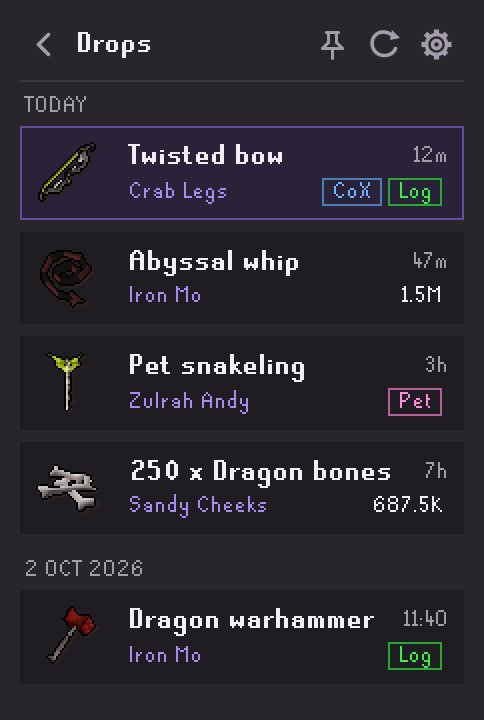
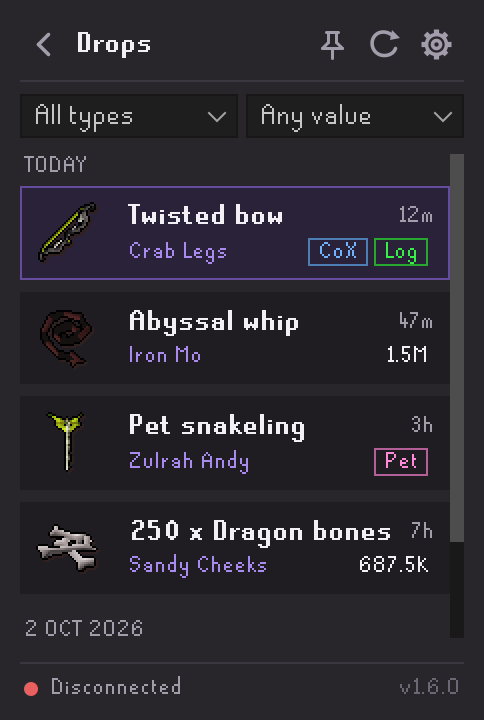
feat(drops): type and value filter

diff --git a/src/main/java/com/tsghub/TsgHubSidebarPanel.java b/src/main/java/com/tsghub/TsgHubSidebarPanel.java
@@ -45,6 +45,7 @@ import javax.swing.Icon;
 import javax.swing.ImageIcon;
 import javax.swing.JButton;
 import javax.swing.JCheckBox;
+import javax.swing.JComboBox;
 import javax.swing.JComponent;
 import javax.swing.JLabel;
 import javax.swing.JOptionPane;
@@ -102,6 +103,9 @@ final class TsgHubSidebarPanel extends PluginPanel
 	private final WidthTrackingPanel dropsPage = new WidthTrackingPanel();
 	private final JScrollPane membersScroll = scroll(membersPage);
 	private final JScrollPane dropsScroll = scroll(dropsPage);
+	private final JPanel dropsView = new JPanel(new BorderLayout(0, GAP_M));
+	private final JComboBox<String> dropType = new JComboBox<>(new String[] {"All types", "Mine", "Raids", "Pets", "Log"});
+	private final JComboBox<String> dropValue = new JComboBox<>(new String[] {"Any value", "100k+", "1m+", "10m+"});
 	private final TsgHubDock dock = new TsgHubDock(center, this::unpin);
 	private View pinned;
 
@@ -128,6 +132,8 @@ final class TsgHubSidebarPanel extends PluginPanel
 	private volatile boolean membersWanted;
 	private volatile boolean groupsWanted;
 	private volatile boolean dropsWanted;
+	private volatile int dropTypeIndex;
+	private volatile int dropValueIndex;
 	private JsonArray members;
 	private JsonArray offlineMembers = new JsonArray();
 	private boolean notesLoaded;
@@ -153,6 +159,8 @@ final class TsgHubSidebarPanel extends PluginPanel
 	private final GroupMembersPanel groupMembers;
 	private static final String WILDERNESS = "Wilderness lvl ";
 	private static final int DROP_ICON_W = 40;
+	private static final String[] DROP_KINDS = {"", "", "raid", "pet", "log"};
+	private static final long[] DROP_VALUES = {0, 100_000, 1_000_000, 10_000_000};
 	private static final DateTimeFormatter CLOCK_TIME = DateTimeFormatter.ofPattern("HH:mm");
 	private static final Color TAG_DEFAULT = new Color(195, 140, 255);
 	private static final Map<String, Color> TAG_COLORS = Map.of(
@@ -220,7 +228,7 @@ final class TsgHubSidebarPanel extends PluginPanel
 		center.add(buildBoard(), "board");
 		center.add(groupsScroll, "groups");
 		center.add(membersScroll, "members");
-		center.add(dropsScroll, "drops");
+		center.add(buildDropsView(), "drops");
 		add(dock, BorderLayout.CENTER);
 		add(buildFooter(), BorderLayout.SOUTH);
 
@@ -1155,6 +1163,75 @@ final class TsgHubSidebarPanel extends PluginPanel
 		if (shows(View.DROPS)) renderDrops();
 	}
 
+	private JPanel buildDropsView()
+	{
+		JPanel filters = panel(new java.awt.GridLayout(1, 2, GAP_S, 0));
+		dropTypeIndex = sessionIndex("dropType", dropType.getItemCount());
+		dropValueIndex = sessionIndex("dropValue", dropValue.getItemCount());
+		dropType.setSelectedIndex(dropTypeIndex);
+		dropValue.setSelectedIndex(dropValueIndex);
+		dropType.setToolTipText("Drop type");
+		dropValue.setToolTipText("Minimum value");
+		dropType.addActionListener(e -> changeDropFilter());
+		dropValue.addActionListener(e -> changeDropFilter());
+		filters.add(dropType);
+		filters.add(dropValue);
+		dropsView.setOpaque(false);
+		dropsView.add(filters, BorderLayout.NORTH);
+		dropsView.add(dropsScroll, BorderLayout.CENTER);
+		return dropsView;
+	}
+
+	private static int sessionIndex(String key, int size)
+	{
+		try
+		{
+			int index = Integer.parseInt(TsgHubSession.get(key));
+			return index >= 0 && index < size ? index : 0;
+		}
+		catch (NumberFormatException e)
+		{
+			return 0;
+		}
+	}
+
+	private void changeDropFilter()
+	{
+		if (dropTypeIndex == dropType.getSelectedIndex() && dropValueIndex == dropValue.getSelectedIndex()) return;
+		dropTypeIndex = Math.max(0, dropType.getSelectedIndex());
+		dropValueIndex = Math.max(0, dropValue.getSelectedIndex());
+		TsgHubSession.set("dropType", dropTypeIndex == 0 ? "" : String.valueOf(dropTypeIndex));
+		TsgHubSession.set("dropValue", dropValueIndex == 0 ? "" : String.valueOf(dropValueIndex));
+		if (shows(View.DROPS)) renderDrops();
+		plugin.drops().load(false);
+	}
+
+	String dropsQuery()
+	{
+		String query = "";
+		String kind = DROP_KINDS[dropTypeIndex];
+		if (!kind.isEmpty()) query += "&kind=" + kind;
+		if (dropTypeIndex == 1) query += "&player=" + TsgHubDrops.encode(plugin.getDetectedPlayerName());
+		if (dropValueIndex > 0) query += "&minValue=" + DROP_VALUES[dropValueIndex];
+		return query;
+	}
+
+	static boolean dropMatches(JsonObject drop, int type, long minValue, String self)
+	{
+		String kind = str(drop, "kind");
+		boolean typeMatches;
+		switch (type)
+		{
+			case 1: typeMatches = samePlayer(str(drop, "player"), self); break;
+			case 2: typeMatches = "raid".equals(kind); break;
+			case 3: typeMatches = "pet".equals(kind) || "dupe".equals(kind); break;
+			case 4: typeMatches = bool(drop, "newLog") || "clog".equals(kind); break;
+			default: typeMatches = true;
+		}
+		long value = drop.has("value") ? drop.get("value").getAsLong() : 0;
+		return typeMatches && value >= minValue;
+	}
+
 	void showDrops()
 	{
 		if (pinned == View.DROPS)
@@ -1176,7 +1253,7 @@ final class TsgHubSidebarPanel extends PluginPanel
 		{
 			dropsPage.add(caption("Loading drops..."));
 		}
-		else if (drops.size() == 0)
+		else if (drops.size() == 0 && dropTypeIndex == 0 && dropValueIndex == 0)
 		{
 			dropsPage.add(errorPanel("No drops yet", "Clan broadcasts for drops, raid loot, pets and collection log items show up here."));
 		}
@@ -1184,10 +1261,18 @@ final class TsgHubSidebarPanel extends PluginPanel
 		{
 			Instant now = clock.instant();
 			ZoneId zone = ZoneId.systemDefault();
-			String day = null;
+			String self = plugin.getDetectedPlayerName();
+			JsonArray shown = new JsonArray();
 			for (int i = 0; i < drops.size(); i++)
 			{
 				JsonObject drop = drops.get(i).getAsJsonObject();
+				if (dropMatches(drop, dropTypeIndex, DROP_VALUES[dropValueIndex], self)) shown.add(drop);
+			}
+			if (shown.size() == 0) dropsPage.add(errorPanel("No matching drops", "Nothing recent matches this type and value."));
+			String day = null;
+			for (int i = 0; i < shown.size(); i++)
+			{
+				JsonObject drop = shown.get(i).getAsJsonObject();
 				String nextDay = dropDay(str(drop, "receivedAt"), now, zone);
 				if (!nextDay.equals(day))
 				{
@@ -2022,9 +2107,9 @@ final class TsgHubSidebarPanel extends PluginPanel
 		else setHeader(titleText, subtitleText, true, true);
 	}
 
-	private JScrollPane pane(View owner)
+	private JComponent pane(View owner)
 	{
-		return owner == View.MEMBERS ? membersScroll : owner == View.DROPS ? dropsScroll : groupsScroll;
+		return owner == View.MEMBERS ? membersScroll : owner == View.DROPS ? dropsView : groupsScroll;
 	}
 
 	private Icon pinIcon(View owner)

diff --git a/src/test/java/com/tsghub/DropsPanelTest.java b/src/test/java/com/tsghub/DropsPanelTest.java
@@ -1,6 +1,7 @@
 package com.tsghub;
 
 import static org.junit.Assert.assertEquals;
+import static org.junit.Assert.assertFalse;
 import static org.junit.Assert.assertNull;
 import static org.junit.Assert.assertTrue;
 
@@ -127,6 +128,34 @@ public class DropsPanelTest
 		drop.addProperty("rate", "1/358");
 		String tip = TsgHubSidebarPanel.dropTooltip(drop);
 		assertTrue(tip, tip.contains("<b>Spindel</b><br>1/358") && tip.contains("DROPPED BY"));
+	}
+
+	@Test
+	public void dropMatches()
+	{
+		JsonObject whip = drop("Abyssal whip", 1);
+		whip.addProperty("kind", "drop");
+		whip.addProperty("player", "Iron Mo");
+		whip.addProperty("value", 1_512_345);
+		JsonObject raid = drop("Twisted bow", 1);
+		raid.addProperty("kind", "raid");
+		raid.addProperty("player", "Crab Legs");
+		raid.addProperty("newLog", true);
+		JsonObject dupe = drop("Vorki", 1);
+		dupe.addProperty("kind", "dupe");
+		dupe.addProperty("player", "Crab Legs");
+
+		assertTrue(TsgHubSidebarPanel.dropMatches(whip, 0, 0, "Crab Legs"));
+		assertFalse(TsgHubSidebarPanel.dropMatches(whip, 1, 0, "Crab Legs"));
+		assertTrue(TsgHubSidebarPanel.dropMatches(raid, 1, 0, "crab\u00a0legs"));
+		assertTrue(TsgHubSidebarPanel.dropMatches(raid, 2, 0, "Crab Legs"));
+		assertFalse(TsgHubSidebarPanel.dropMatches(whip, 2, 0, "Crab Legs"));
+		assertTrue(TsgHubSidebarPanel.dropMatches(dupe, 3, 0, "Crab Legs"));
+		assertTrue(TsgHubSidebarPanel.dropMatches(raid, 4, 0, "Crab Legs"));
+		assertFalse(TsgHubSidebarPanel.dropMatches(dupe, 4, 0, "Crab Legs"));
+		assertTrue(TsgHubSidebarPanel.dropMatches(whip, 0, 1_000_000, "Crab Legs"));
+		assertFalse(TsgHubSidebarPanel.dropMatches(whip, 0, 10_000_000, "Crab Legs"));
+		assertFalse(TsgHubSidebarPanel.dropMatches(raid, 2, 100_000, "Crab Legs"));
 	}
 
 	private static JsonObject drop(String item, int quantity)

diff --git a/src/main/java/com/tsghub/TsgHubDrops.java b/src/main/java/com/tsghub/TsgHubDrops.java
@@ -101,15 +101,29 @@ final class TsgHubDrops
 	{
 		if (!plugin.isInHubClan() || !plugin.sharingEnabled() || executor.isShutdown()) return;
 		String clan = encode(plugin.getDetectedClanName());
+		String query = query();
 		if (!quiet) ui(s -> s.setBusy(true));
 		executor.submit(() -> {
 			try
 			{
-				apply(api.get().request("GET", "/v1/drops?clanName=" + clan, null, null).getAsJsonArray("drops"));
+				JsonArray drops = api.get().request("GET", "/v1/drops?clanName=" + clan + query, null, null).getAsJsonArray("drops");
+				if (query.equals(query())) apply(drops);
 			}
 			catch (Exception e) { if (!quiet) ui(s -> s.setStatus("Couldn't load drops. " + TsgHubUi.friendlyError(e), Tone.ERROR)); }
 			finally { if (!quiet) ui(s -> s.setBusy(false)); }
 		});
+	}
+
+	void onSnapshot(JsonArray drops)
+	{
+		if (query().isEmpty()) apply(drops);
+		else load(true);
+	}
+
+	private String query()
+	{
+		TsgHubSidebarPanel s = sidebar.get();
+		return s == null ? "" : s.dropsQuery();
 	}
 
 	void apply(JsonArray drops)
@@ -153,9 +167,9 @@ final class TsgHubDrops
 		if (s != null && s.wantsDrops()) load(true);
 	}
 
-	private static String encode(String value)
+	static String encode(String value)
 	{
-		try { return java.net.URLEncoder.encode(value, java.nio.charset.StandardCharsets.UTF_8.name()); }
+		try { return java.net.URLEncoder.encode(value == null ? "" : value, java.nio.charset.StandardCharsets.UTF_8.name()); }
 		catch (java.io.UnsupportedEncodingException e) { return ""; }
 	}
 

diff --git a/src/main/java/com/tsghub/TsgHubPlugin.java b/src/main/java/com/tsghub/TsgHubPlugin.java
@@ -810,7 +810,7 @@ public class TsgHubPlugin extends Plugin
 				if (roster != null) presence.apply(TsgHubUi.array(roster, "members"), notes == null ? null : TsgHubUi.array(notes, "members"));
 				break;
 			case "drops":
-				drops.apply(TsgHubUi.array(data, "drops"));
+				drops.onSnapshot(TsgHubUi.array(data, "drops"));
 				break;
 			case "events":
 				applyClanEvents(TsgHubUi.array(data, "events"));
